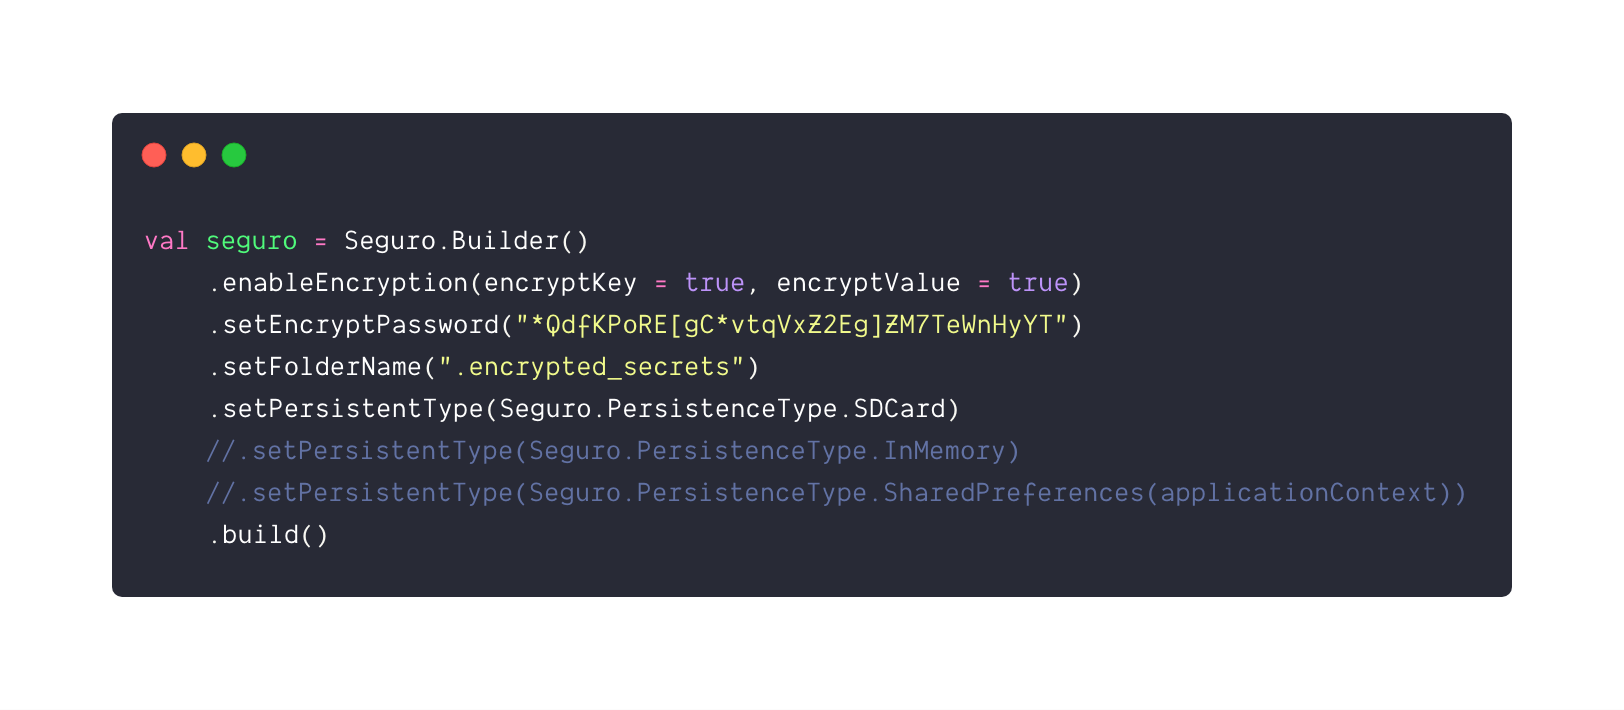
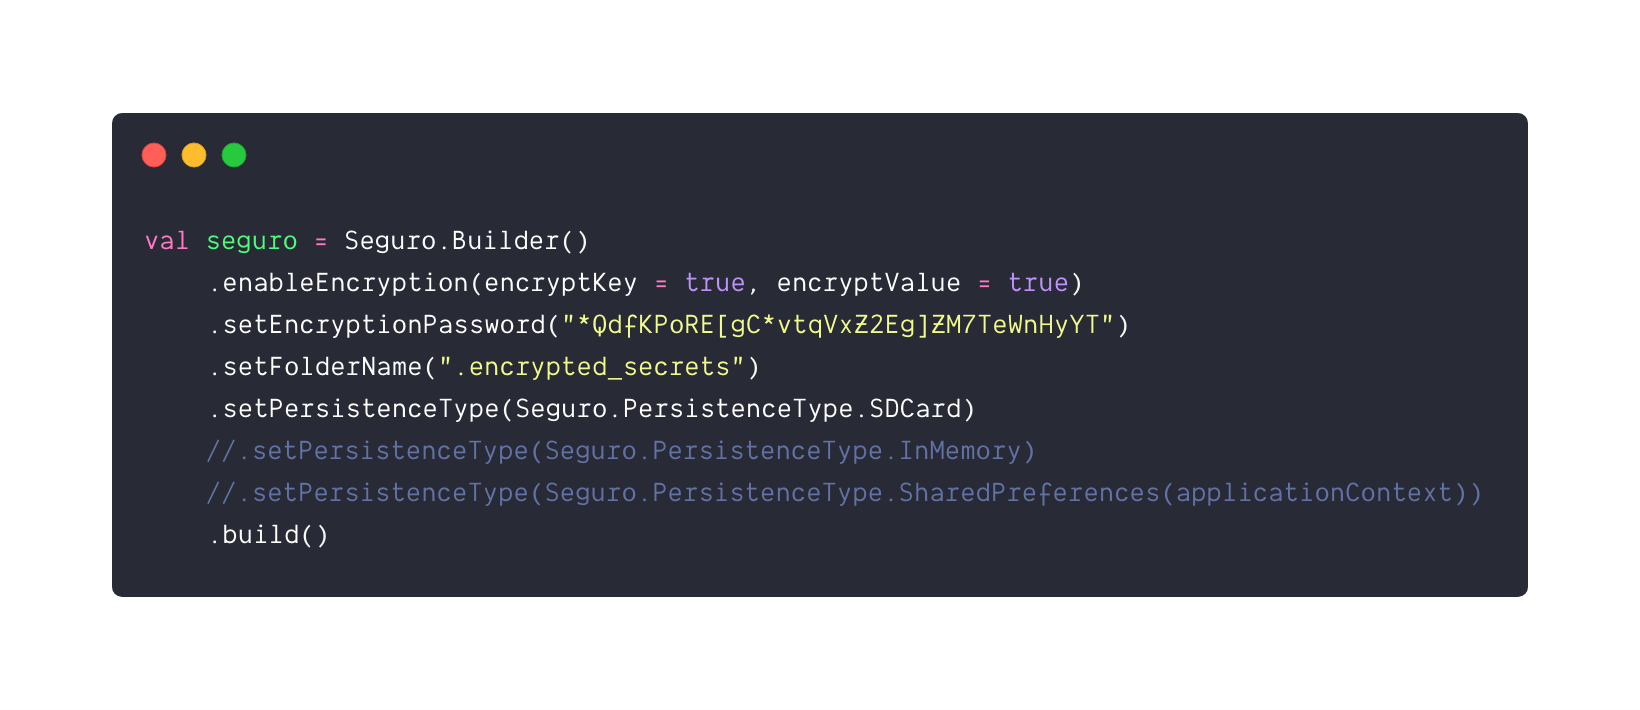
minor tweaks

diff --git a/sample/src/main/java/com/example/seguro/MainActivity.kt b/sample/src/main/java/com/example/seguro/MainActivity.kt
@@ -28,11 +28,11 @@ class MainActivity : AppCompatActivity() {
 
         seguro = Seguro.Builder()
             .enableEncryption(encryptKey = true, encryptValue = true)
-            .setEncryptPassword("Password@123")
+            .setEncryptionPassword("*QdfKPoRE[gC*vtqVxZ2Eg]ZM7TeWnHyYTHU}DuEocJd6QxuZ9WJ")
             .setFolderName(".${BuildConfig.APPLICATION_ID}")
-            .setPersistentType(Seguro.PersistenceType.SDCard)
-//            .setPersistentType(Seguro.PersistenceType.InMemory)
-//            .setPersistentType(Seguro.PersistenceType.SharedPreferences(applicationContext))
+            .setPersistenceType(Seguro.PersistenceType.SDCard)
+//            .setPersistenceType(Seguro.PersistenceType.InMemory)
+//            .setPersistenceType(Seguro.PersistenceType.SharedPreferences(applicationContext))
             .build()
 
         // READ

diff --git a/seguro-core/src/main/java/cesarferreira/seguro/library/Seguro.kt b/seguro-core/src/main/java/cesarferreira/seguro/library/Seguro.kt
@@ -224,7 +224,7 @@ class Seguro private constructor(
             return this
         }
 
-        fun setEncryptPassword(password: String): Builder {
+        fun setEncryptionPassword(password: String): Builder {
             config.password = password
             return this
         }
@@ -234,7 +234,7 @@ class Seguro private constructor(
             return this
         }
 
-        fun setPersistentType(type: PersistenceType): Builder {
+        fun setPersistenceType(type: PersistenceType): Builder {
             config.persistenceType = type
             return this
         }

diff --git a/README.md b/README.md
@@ -1,13 +1,13 @@
-# seguro
-> 🔑 Secure persistence using AES encryption on Android with no dependencies. 
+# seguro 
+> 🔑 Secure persistence (Memory/SharedPreferences/SDCard) using AES+CBC encryption on Android with no dependencies. 
 
 <p align="center">
   <img src="extras/builder.png" width="100%" />
 </p>
 
-<!--<p align="center">
+<p align="center">
   <a href="https://github.com/cesarferreira/seguro/blob/master/LICENSE"><img src="https://img.shields.io/badge/license-MIT-blue.svg" alt="License"></a>
-</p>-->
+</p>
 
 
 ## Usage
@@ -15,9 +15,9 @@
 ```kotlin
 seguro = Seguro.Builder()
     .enableEncryption(encryptKey = true, encryptValue = true)
-    .setEncryptPassword("*QdfKPoRE[gC*vtqVxZ2Eg]ZM7TeWnHyYT")
+    .setEncryptionPassword("*QdfKPoRE[gC*vtqVxZ2Eg]ZM7TeWnHyYT")
     .setFolderName(".${BuildConfig.APPLICATION_ID}")
-    .setPersistentType(Seguro.PersistenceType.SDCard)
+    .setPersistenceType(Seguro.PersistenceType.SDCard)
 	//.setPersistentType(Seguro.PersistenceType.InMemory)
 	//.setPersistentType(Seguro.PersistenceType.SharedPreferences(applicationContext))
     .build()
